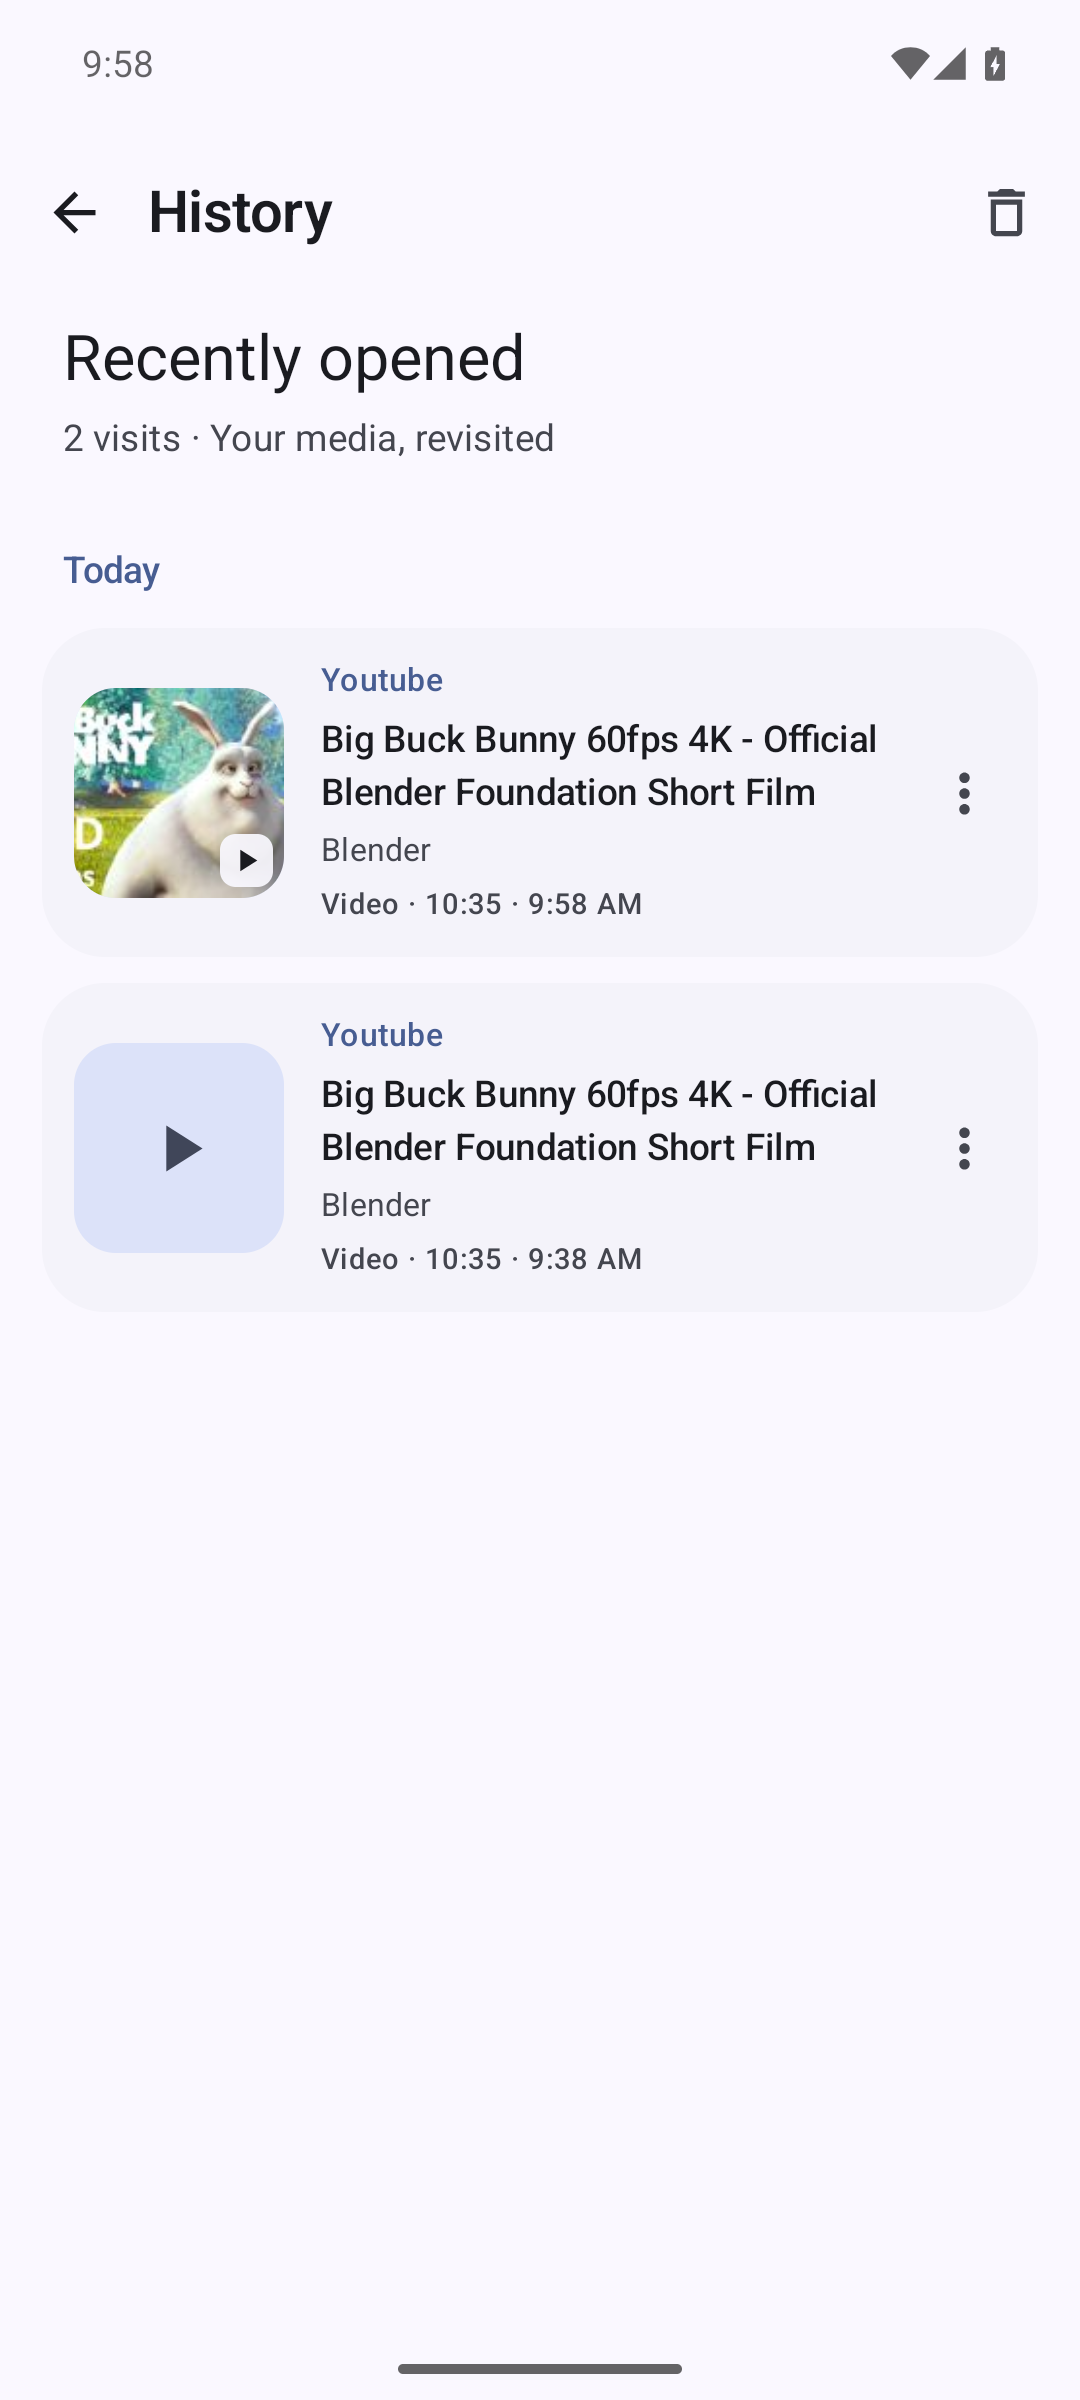
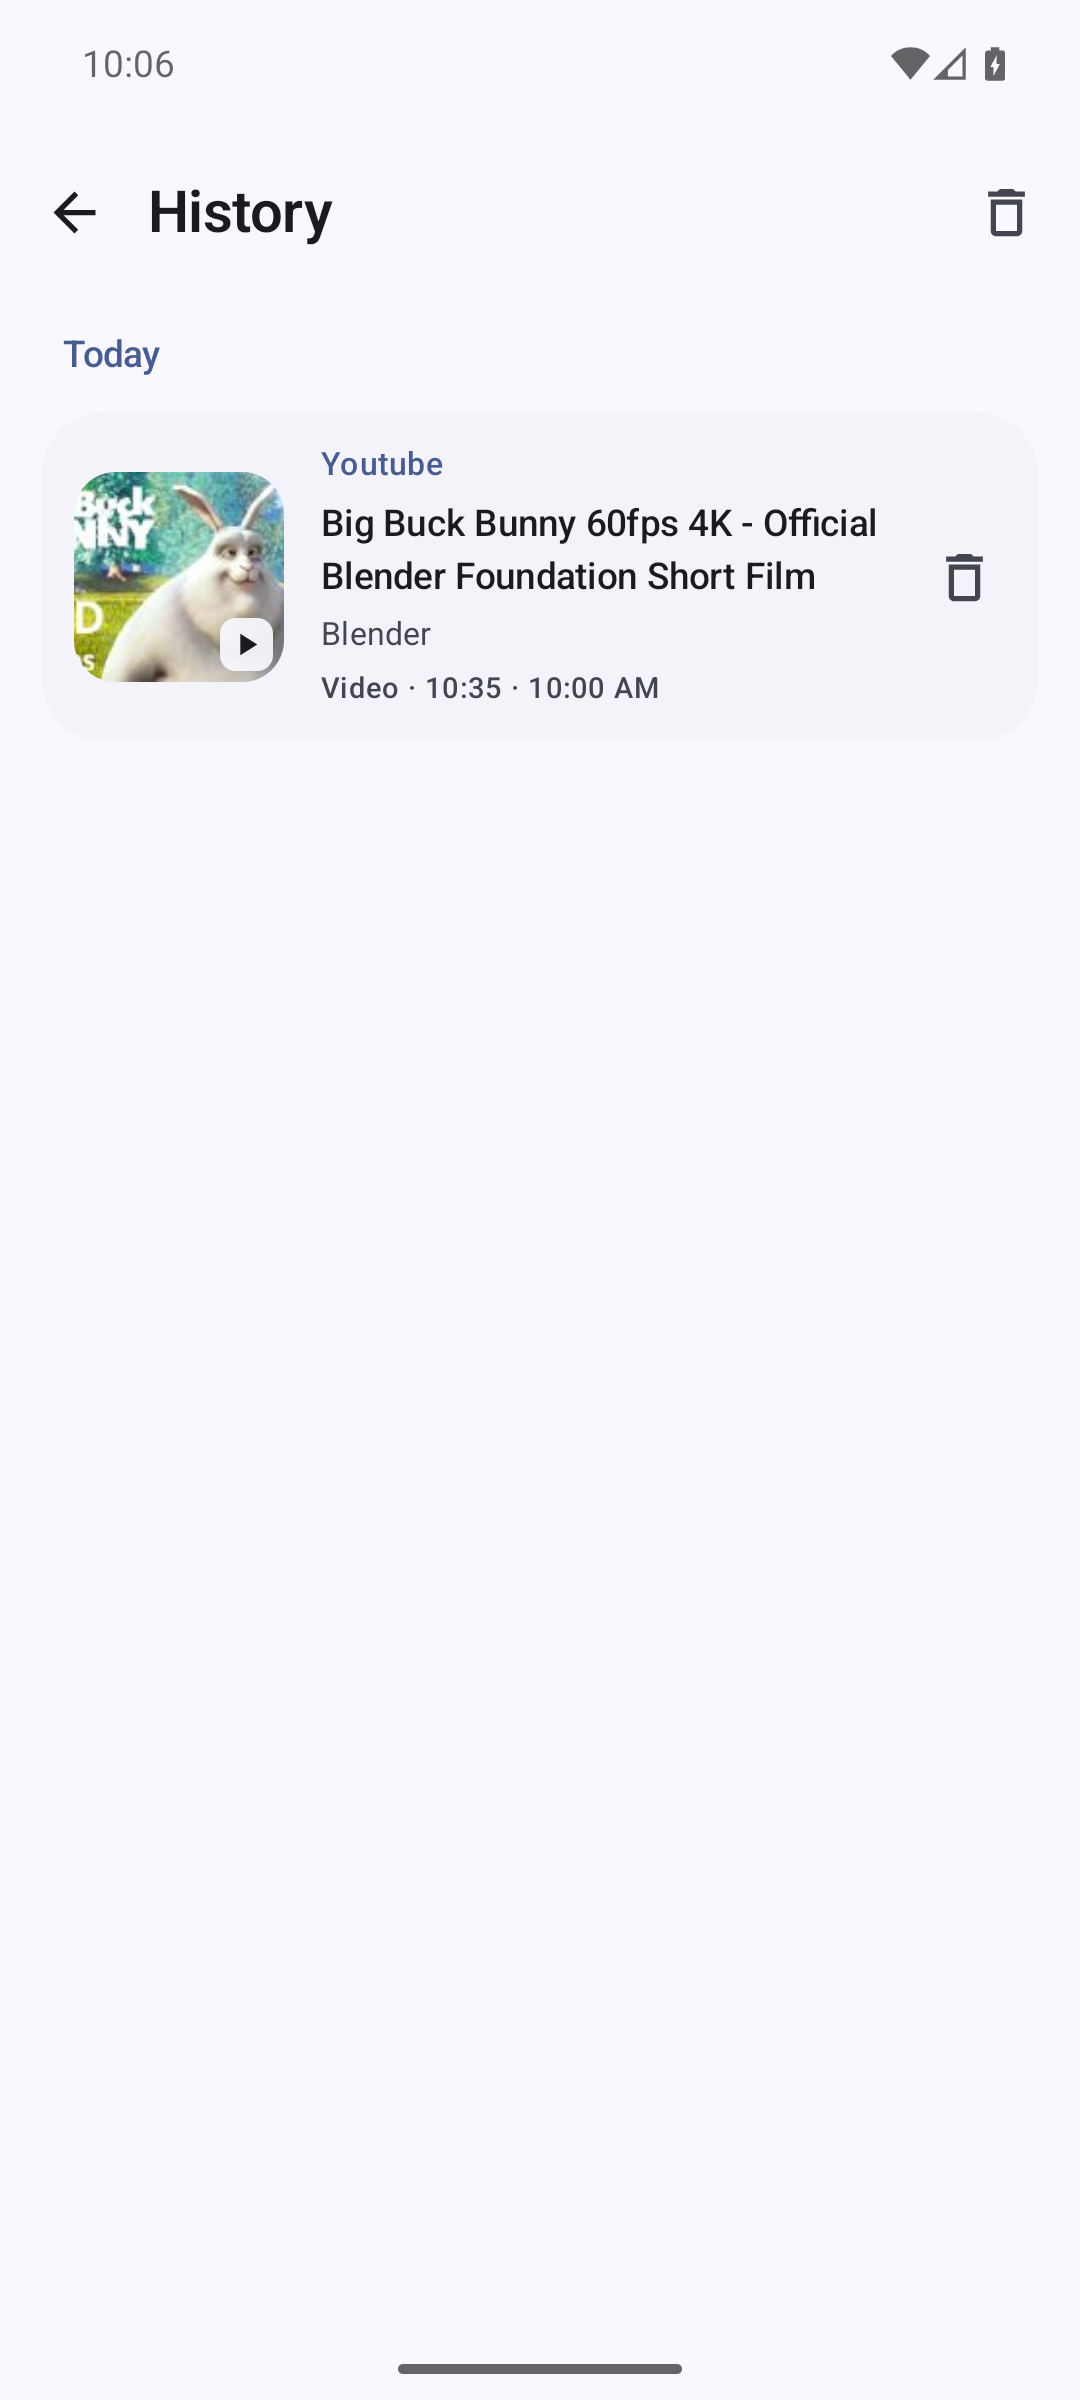
Simplify History and expose direct removal

diff --git a/app/src/main/java/org/peek/app/ui/history/HistoryScreen.kt b/app/src/main/java/org/peek/app/ui/history/HistoryScreen.kt
@@ -98,17 +98,6 @@ internal fun HistoryScreen(
                         contentPadding = PaddingValues(start = 16.dp, end = 16.dp, bottom = 24.dp),
                         verticalArrangement = Arrangement.spacedBy(10.dp),
                     ) {
-                        item(key = "intro") {
-                            Column(Modifier.padding(start = 8.dp, top = 8.dp, bottom = 8.dp)) {
-                                Text("Recently opened", style = MaterialTheme.typography.headlineSmall)
-                                Text(
-                                    "${entries.size} ${if (entries.size == 1) "visit" else "visits"} · Your media, revisited",
-                                    modifier = Modifier.padding(top = 4.dp),
-                                    style = MaterialTheme.typography.bodyMedium,
-                                    color = MaterialTheme.colorScheme.onSurfaceVariant,
-                                )
-                            }
-                        }
                         groups.forEach { (day, dayEntries) ->
                             item(key = "day-$day") {
                                 val yesterday = Calendar.getInstance().apply { add(Calendar.DAY_OF_YEAR, -1) }
@@ -166,7 +155,6 @@ private fun HistoryRow(
     modifier: Modifier = Modifier,
 ) {
     val context = LocalContext.current
-    var showMenu by remember { mutableStateOf(false) }
     val title = entry.title ?: entry.sourceHost() ?: "Untitled media"
     val time = DateUtils.formatDateTime(context, entry.viewedAtEpochMillis, DateUtils.FORMAT_SHOW_TIME)
     Card(
@@ -195,17 +183,12 @@ private fun HistoryRow(
                     color = MaterialTheme.colorScheme.onSurfaceVariant,
                 )
             }
-            Box {
-                IconButton(onClick = { showMenu = true }) {
-                    Icon(painterResource(R.drawable.ic_more_vert), "Options for $title", tint = MaterialTheme.colorScheme.onSurfaceVariant)
-                }
-                DropdownMenu(expanded = showMenu, onDismissRequest = { showMenu = false }) {
-                    DropdownMenuItem(
-                        text = { Text("Remove from history") },
-                        leadingIcon = { Icon(painterResource(R.drawable.ic_delete), null) },
-                        onClick = { showMenu = false; onRemove() },
-                    )
-                }
+            IconButton(onClick = onRemove) {
+                Icon(
+                    painterResource(R.drawable.ic_delete),
+                    "Remove $title from history",
+                    tint = MaterialTheme.colorScheme.onSurfaceVariant,
+                )
             }
         }
     }

diff --git a/app/src/androidTest/java/org/peek/app/ui/history/HistoryScreenTest.kt b/app/src/androidTest/java/org/peek/app/ui/history/HistoryScreenTest.kt
@@ -14,7 +14,7 @@ class HistoryScreenTest {
     private val entry = HistoryEntry(7, "https://example.com/watch", "Example", "An afternoon outside", "A creator", HistoryMediaKind.Video, 1, 62, System.currentTimeMillis())
 
     @Test
-    fun rowOpensMediaAndOverflowRemovesOnlyTheSelectedVisit() {
+    fun rowOpensMediaAndRemoveIconDeletesOnlyTheSelectedVisit() {
         var opened: Long? = null
         var removed: Long? = null
         composeRule.setContent {
@@ -23,9 +23,9 @@ class HistoryScreenTest {
         composeRule.onNodeWithText("Today").assertIsDisplayed()
         composeRule.onNodeWithText(entry.title!!).performClick()
         composeRule.runOnIdle { assertEquals(7L, opened) }
-        composeRule.onNodeWithContentDescription("Options for ${entry.title}").performClick()
-        composeRule.runOnIdle { assertEquals(null, removed) }
-        composeRule.onNodeWithText("Remove from history").performClick()
+        composeRule.runOnIdle { opened = null }
+        composeRule.onNodeWithContentDescription("Remove ${entry.title} from history").performClick()
+        composeRule.runOnIdle { assertEquals(null, opened) }
         composeRule.runOnIdle { assertEquals(7L, removed) }
     }
 

diff --git a/docs/design/unfurlit.md b/docs/design/unfurlit.md
@@ -41,7 +41,7 @@ code 6 makes the rebrand an upgrade to the existing v5 release.
 
 History uses date sections and rounded cards with 80dp previews, a platform label,
 title, creator, and compact media/time details. Back and clear use labelled icon
-buttons; each card has an overflow menu for removal. Missing artwork uses a
+buttons; each card has a direct remove icon. Missing artwork uses a
 Material-colored media icon. Card removal animates the remaining list.
 
 Database version 2 adds a nullable thumbnail blob without modifying existing
@@ -69,7 +69,7 @@ exploration board, not a specification of app behavior or a release screenshot.
   Android 16 / API 36 emulator. They cover full navigation, short/diagonal
   swipes, bidirectional paging, movement before release, retained typed input,
   button navigation, predictive Back cancellation/completion, and both edges.
-  History tests cover row/menu actions, clear confirmation, empty state,
+  History tests cover row/remove actions, clear confirmation, empty state,
   database migration, thumbnail persistence, and deletion during preview loading.
 - Debug APK, test APK, Android lint, and the offline source-extractor release
   build passed. Lint reports dependency-update notices; the monochrome icon

diff --git a/README.md b/README.md
@@ -134,7 +134,7 @@ with a card transition. Android's edge Back gesture also previews the return
 and can be cancelled. A link typed on Home is retained while visiting History.
 Opening an entry extracts
 the original page again so stale stream URLs are never reused. Individual events can
-be removed through their overflow menu, and the toolbar trash icon clears the
+be removed with their trash icon, and the toolbar trash icon clears the
 entire history after confirmation. Visits appear in date groups with small
 thumbnails and media-type icons.
 
